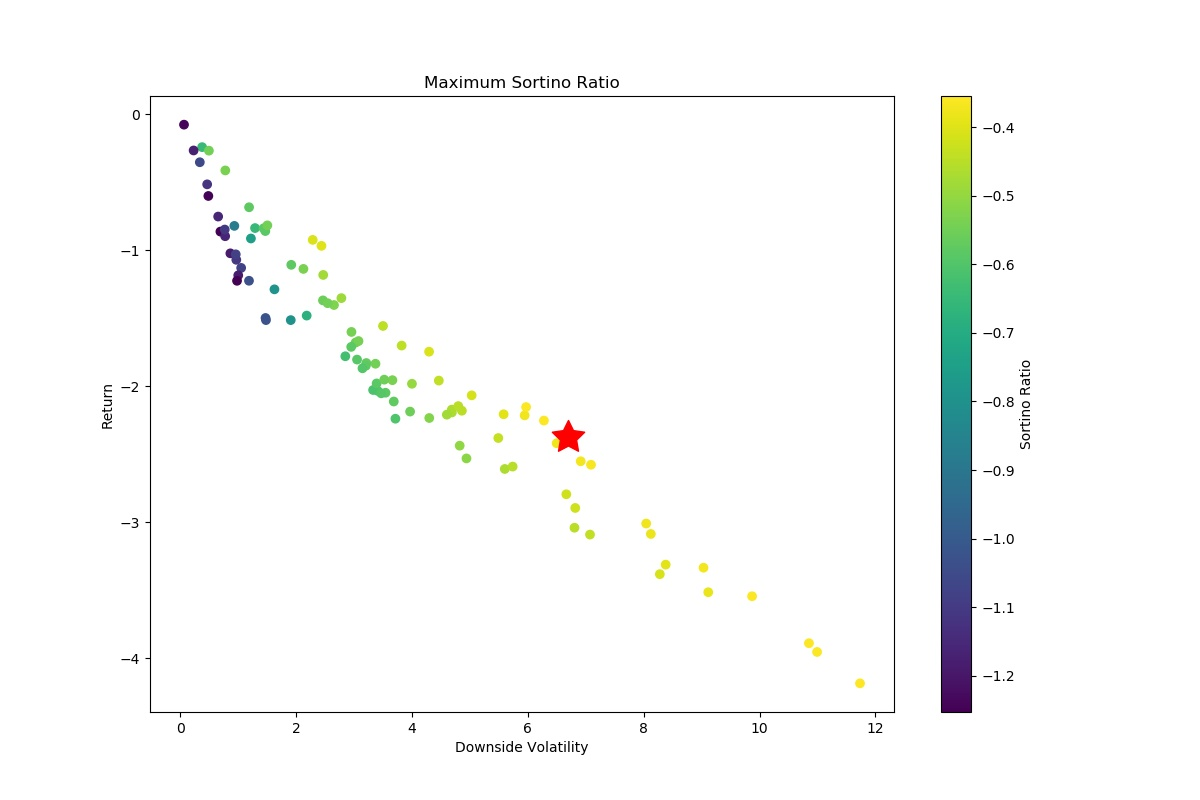
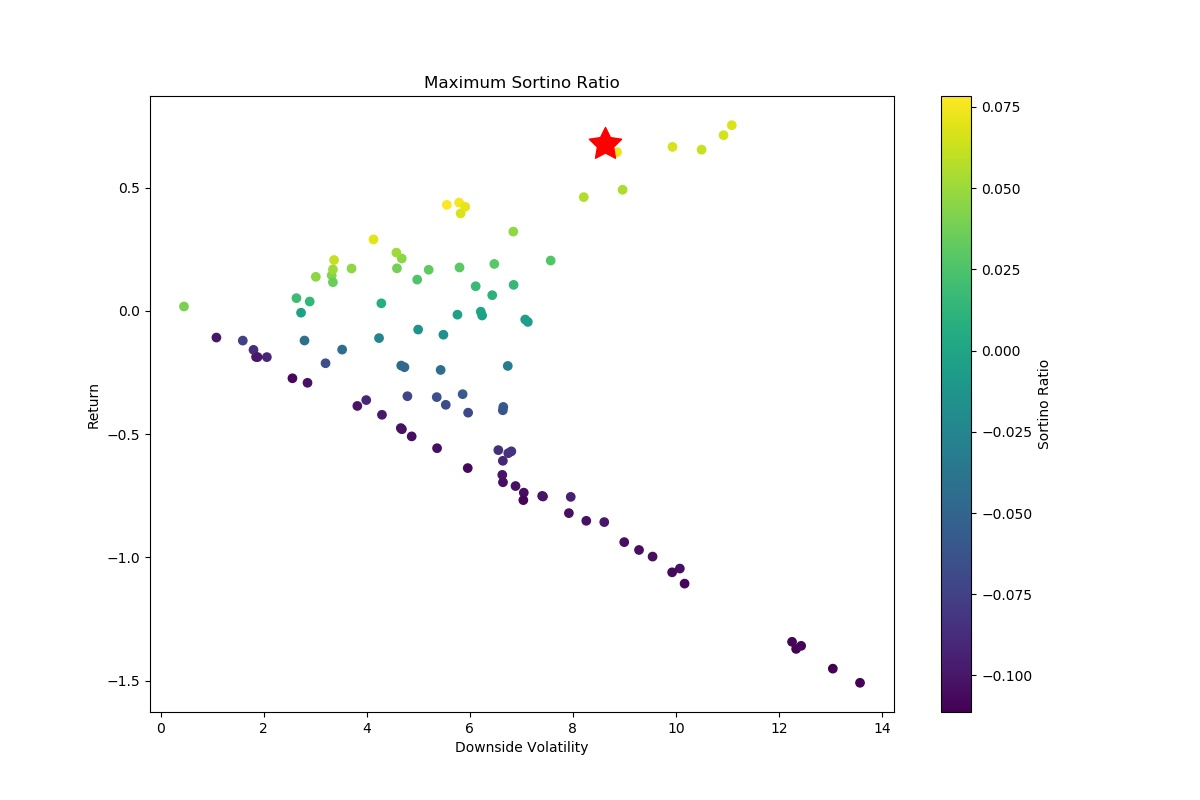
very close

diff --git a/optimalPortfolio.py b/optimalPortfolio.py
@@ -21,6 +21,7 @@ import pandas as pd
 from projReturn import ProjReturn
 
 dailyOptimalRatios = []
+num_runs = 100
 
 class Portfolio():
 
@@ -30,13 +31,12 @@ class Portfolio():
     
     def __init__(self, expectedReturns, returns, currentAlocation, prices, capital, N, noGoldDay = False): #N = trading day
         if  noGoldDay: 
-            print(currentAlocation)
             maxSortToday = self.simulationsNoGold(returns, N, currentAlocation, capital, prices, True)
             dailyOptimalRatios.append(maxSortToday[5:8])
             
             maxSortTomorrow = self.simulationsNoGold(expectedReturns, N, currentAlocation, capital, prices)
             self.maxSortAloTomorrow = maxSortTomorrow[5:8]
-            print(self.maxSortTomorrow)
+            
             
         else:
             maxSortToday = self.simulations(returns, N, currentAlocation, capital, prices, True)
@@ -56,7 +56,7 @@ class Portfolio():
 
     def simulations(self, returns, N, currentAlo = [0], capital = 0, prices = [0], justSortino = False): #n=trading day
         # Creating 10000 random simulations of each portfolio weight configuration
-        num_runs = 100 # number of rows/iterations
+        
 
         # Creating a Matrix with 10000 rows, with each row representing a random portfolio:
         #first 3 columns are Mean Returns, Standard Deviation, and Sortino Ratio
@@ -131,21 +131,21 @@ class Portfolio():
             min_distance = result['adjustedDistance'].min()
             result['NormedDistance'] = ((result['adjustedDistance'] - min_distance) / (max_distance - min_distance))
 
-            result['M-Value'] = result['NormedSortino'] + result['NormedDistance']
+            result['M-Value'] = result['NormedSortino'] - result['NormedDistance']
 
             maxIndex = result['M-Value'].idxmax()
             bestRow = result.loc[maxIndex].to_list()
 
         #get plots we need
-        if N == 10:
+        if N == 15:
             self.plotMinsMaxs(result)
 
         
         return bestRow
 
-    def simulationsNoGold(self, returns, N, currentAlo = [0], capital = 1000, prices = [0]): #n=trading day
+    def simulationsNoGold(self, returns, N, currentAlo = [0], capital = 1000, prices = [0], justSortino = False): #n=trading day
         # Creating 10000 random simulations of each portfolio weight configuration
-        num_runs = 100 # number of rows/iterations
+        
 
         # Creating a Matrix with 10000 rows, with each row representing a random portfolio:
         #first 3 columns are Mean Returns, Standard Deviation, and Sortino Ratio
@@ -160,7 +160,9 @@ class Portfolio():
             
             #weights with gold fixed
             goldWeight = (currentAlo[2] / capital)
-            weights = np.random.dirichlet(np.ones(3), size =(1 - goldWeight))[0].tolist()
+
+            weights = np.random.dirichlet(np.ones(2), size =1)[0].tolist()
+            weights = [weight * (1-goldWeight) for weight in weights]
             weights.append(goldWeight)
             
             # daily return of the portfolio based on a given set of weights (with no gold)
@@ -184,7 +186,7 @@ class Portfolio():
             
             tradingCost = 0
         #solve adjusted distance (trading cost) between simulatedAlo(1) and realAlo(0), if x is Bit and there is no gold: distance = 2|x1-x0| 
-            if currentAlo != [0]:
+            if not justSortino:
                 #trading cost
                 x = abs(currentAlo[1] - (weights[1]*capital)) / prices[1]
                 
@@ -210,9 +212,11 @@ class Portfolio():
         #maybe norm[sortino] + norm[adjusteddistance]?
         #our selection optimal alocation ratio is the one associated with highest M
         #M-value (which one to pick?) a function of sortino and adjusted distance
-        maxIndex = result['Sortino'].idxmax()
-        bestRow = result.iloc[[maxIndex]].to_list()
-        if currentAlo != [0]:
+        maxIndex = int(result['Sortino'].idxmax())
+        
+        bestRow = result.loc[maxIndex].to_list()
+        
+        if not justSortino:
             max_Sortino = bestRow[4]
             min_Sortino = result['Sortino'].min()
             result['NormedSortino'] = ((result.Sortino - min_Sortino) / (max_Sortino - min_Sortino))
@@ -221,14 +225,14 @@ class Portfolio():
             min_distance = result['adjustedDistance'].min()
             result['NormedDistance'] = ((result.adjustedDistance - min_distance) / (max_distance - min_distance))
 
-            result['M-Value'] = result['NormedSortino'] + result['NormedDistance']
+            result['M-Value'] = result['NormedSortino'] - result['NormedDistance']
 
-            maxIndex = result['M-Value'].idxmax()
-            bestRow = result.iloc[[maxIndex]].to_list()
+            maxIndex = int(result['M-Value'].idxmax())
+            bestRow = result.loc[maxIndex].to_list()
 
 
         #get plots we need
-        if N == 5:
+        if N == 50:
             self.plotMinsMaxs(result)
 
         return bestRow

diff --git a/day.py b/day.py
@@ -6,13 +6,13 @@ from optimalPortfolio import Portfolio
 from projReturn import ProjReturn
 
 
-priceB = 621
-priceG = 1324.6
+
+length = 20
 
 alocations = [[0, 1000, 0], [0, 1000, 0], [0, 1000, 0], [0, 1000, 0]]
 proportionalAlocations = [[0, 1, 0], [0, 1, 0], [0, 1, 0], [0, 1, 0]]
 totalCapital = [1000.00, 1000.00, 1000.00, 1000.00]
-comparedReturns= {"date":[],"realB":[621.65, 609.67], "projectedB":[0, 0, 0, 0],"realG":[1324.6, 1324.6, 1323.65], "projectedG":[0, 0, 0, 0]}
+comparedReturns= {"date":[],"realB":[621.65, 609.67, 610.92], "projectedB":[0, 0, 0, 0],"realG":[1324.6, 1324.6, 1323.65], "projectedG":[0, 0, 0, 0]}
 expectedReturnRates = []
 #historicReturns = [[0, 0, 0], [0, -11.98, 0]]
 #yesterdayPrices = [1, 609.67, 1324.6]
@@ -26,7 +26,7 @@ def calculateTotalCapital(allocation):
 def calculateActualAllocation(proportionalAlo, capital, prices):
     portfolio = [0,0,0]
     for i in range(3):
-        portfolio[i] = proportionalAlo[i] * capital[i] * prices[i]
+        portfolio[i] = proportionalAlo[i] * capital[i] / prices[i]
     return portfolio
 
 def getProportionalAllocation(allocation, totalCapital):
@@ -36,6 +36,7 @@ def getProportionalAllocation(allocation, totalCapital):
     return portfolio
 
 def getPlots(start, stop):
+    print(comparedReturns)
     comparedReturnsDF = pd.DataFrame(comparedReturns)
 
     #graph optimal returns compared to real returns
@@ -80,7 +81,6 @@ def day_main():
     """
     historicReturns = [[0, -11.98, 0]]
     yesterdayPrices = [1, 609.67, 1324.6]
-    length = 20
     yesterdaySigmaG = 0
     yesterdayMuG = 0
 
@@ -100,21 +100,25 @@ def day_main():
             date = rowB[2]
             sigmas = [0, rowB[11], yesterdaySigmaG]
             mus = [0, rowB[10], yesterdayMuG]
-            prices = [1, rowB[3], yesterdayPrices[3]]
+            prices = [1, rowB[3], yesterdayPrices[2]]
 
+            
             expectedReturns = [0, 0, 0]
 
             RowReturnerB = ProjReturn(sigmas[1], mus[1], prices[1]) #sigma (or sigma hat), mu, value(price)
             expectedReturns[1] = RowReturnerB.getReturn()
             
+            
             RowReturnerG = ProjReturn(sigmas[1], mus[2], prices[2]) #sigma (or sigma hat), mu, value(price)
             expectedReturns[2] = RowReturnerG.getReturn()
+            
 
             comparedReturns["date"].append(date)
             comparedReturns["realB"].append(prices[1])
-            comparedReturns["projectedB"].append(RowReturnerB.getProjPrice)
             comparedReturns["realG"].append(prices[2])
-            comparedReturns["projectedG"].append(RowReturnerG.getProjPrice)
+            if i != (length-1):
+                comparedReturns["projectedB"].append(RowReturnerB.getProjPrice())
+                comparedReturns["projectedG"].append(RowReturnerG.getProjPrice())
 
             historicReturns.append([0, (prices[1] -yesterdayPrices[1]), (prices[2] -yesterdayPrices[2])])
             expectedReturnRates = historicReturns 
@@ -127,28 +131,29 @@ def day_main():
             mus = [0, rowB[10], rowG[10]]
             prices = [1, rowB[3], rowG[3]]
             
+            expectedReturnRates = [0, 0, 0]
             expectedReturns = [0, 0, 0]
 
             RowReturnerB = ProjReturn(sigmas[1], mus[1], prices[1]) #sigma (or sigma hat), mu, value(price)
-            expectedReturns[1] = RowReturnerB.getReturn()
+            expectedReturnRates[1] = RowReturnerB.getReturn()
             
             RowReturnerG = ProjReturn(sigmas[1], mus[2], prices[2]) #sigma (or sigma hat), mu, value(price)
-            expectedReturns[2] = RowReturnerG.getReturn()
+            expectedReturnRates[2] = RowReturnerG.getReturn()
 
             comparedReturns["date"].append(date)
             comparedReturns["realB"].append(prices[1])
-            comparedReturns["projectedB"].append(RowReturnerB.getProjPrice)
+            comparedReturns["projectedB"].append(RowReturnerB.getProjPrice())
             comparedReturns["realG"].append(prices[2])
-            comparedReturns["projectedG"].append(RowReturnerG.getProjPrice)
+            comparedReturns["projectedG"].append(RowReturnerG.getProjPrice())
 
             historicReturns.append([0, (prices[1] -yesterdayPrices[1]), (prices[2] -yesterdayPrices[2])])
             expectedReturnRates = historicReturns 
             expectedReturns += expectedReturns
 
-            portfolio = Portfolio(expectedReturnRates, historicReturns, alocations[i], prices, totalCapital[i], i, goldDay =False)
+            portfolio = Portfolio(expectedReturnRates, historicReturns, alocations[i], prices, totalCapital[i], i, noGoldDay=False)
 
-            yesterdayMuG = mus[3]
-            yesterdaySigmaG = sigmas[3]
+            yesterdayMuG = mus[2]
+            yesterdaySigmaG = sigmas[2]
         
         #send data to optimalportfolio
         proportialAlo = portfolio.getOptimalPortfolio()

diff --git a/projReturn.py b/projReturn.py
@@ -13,7 +13,7 @@ class ProjReturn():
     averageTomorrowPrice = 0
     
 
-    def __init__(self,sigma=0.0, mu=0.0, price = 0.0, k = 100):
+    def __init__(self,sigma=0.0, mu=0.0, price = 0.0, k = 1000):
         self.sigma = sigma
         self.mu = mu
         sumReturns = 0
